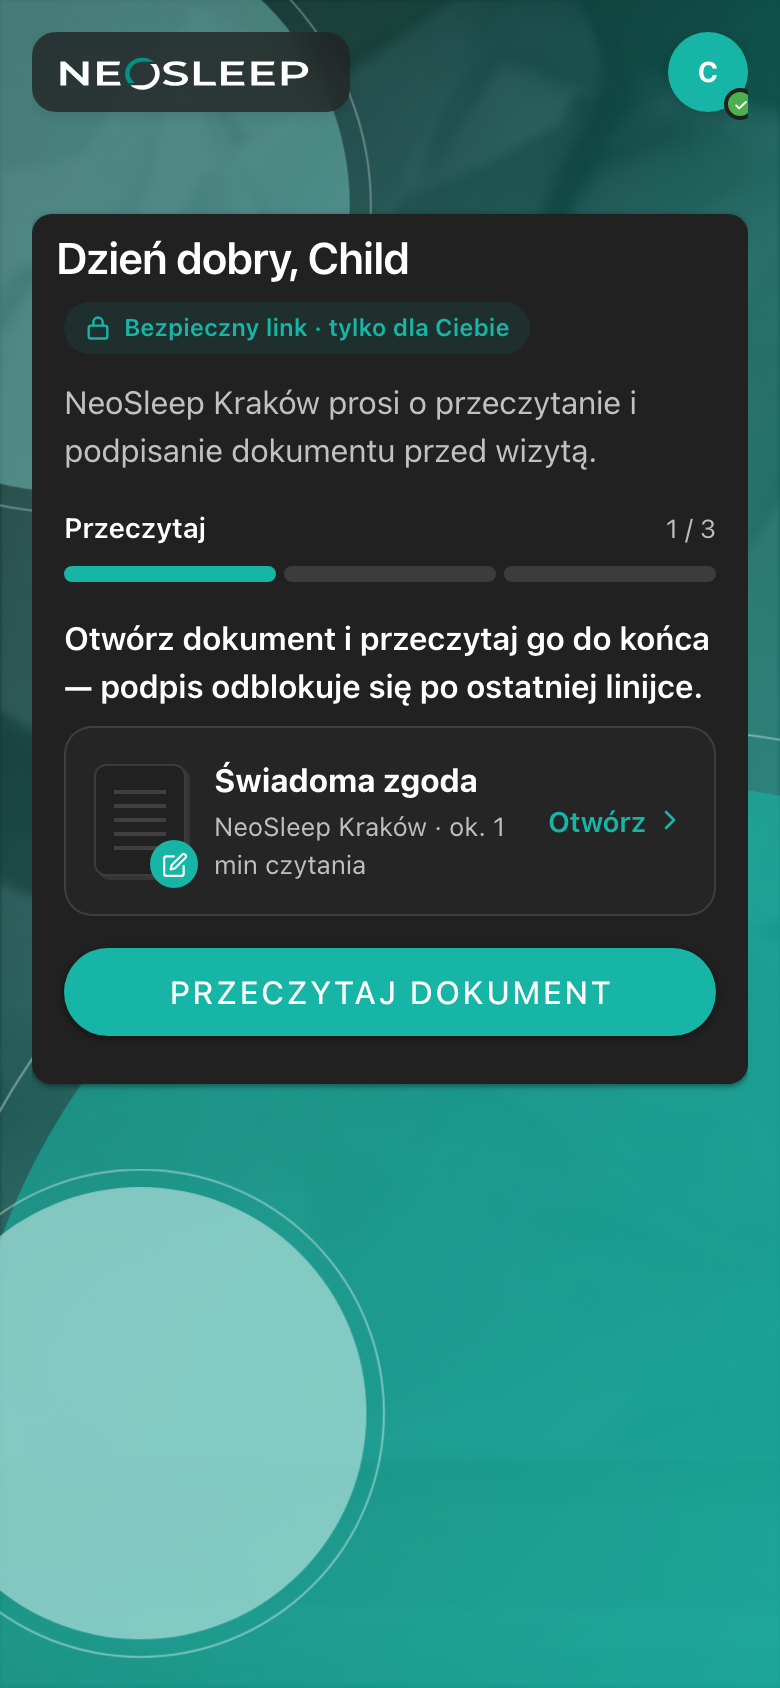
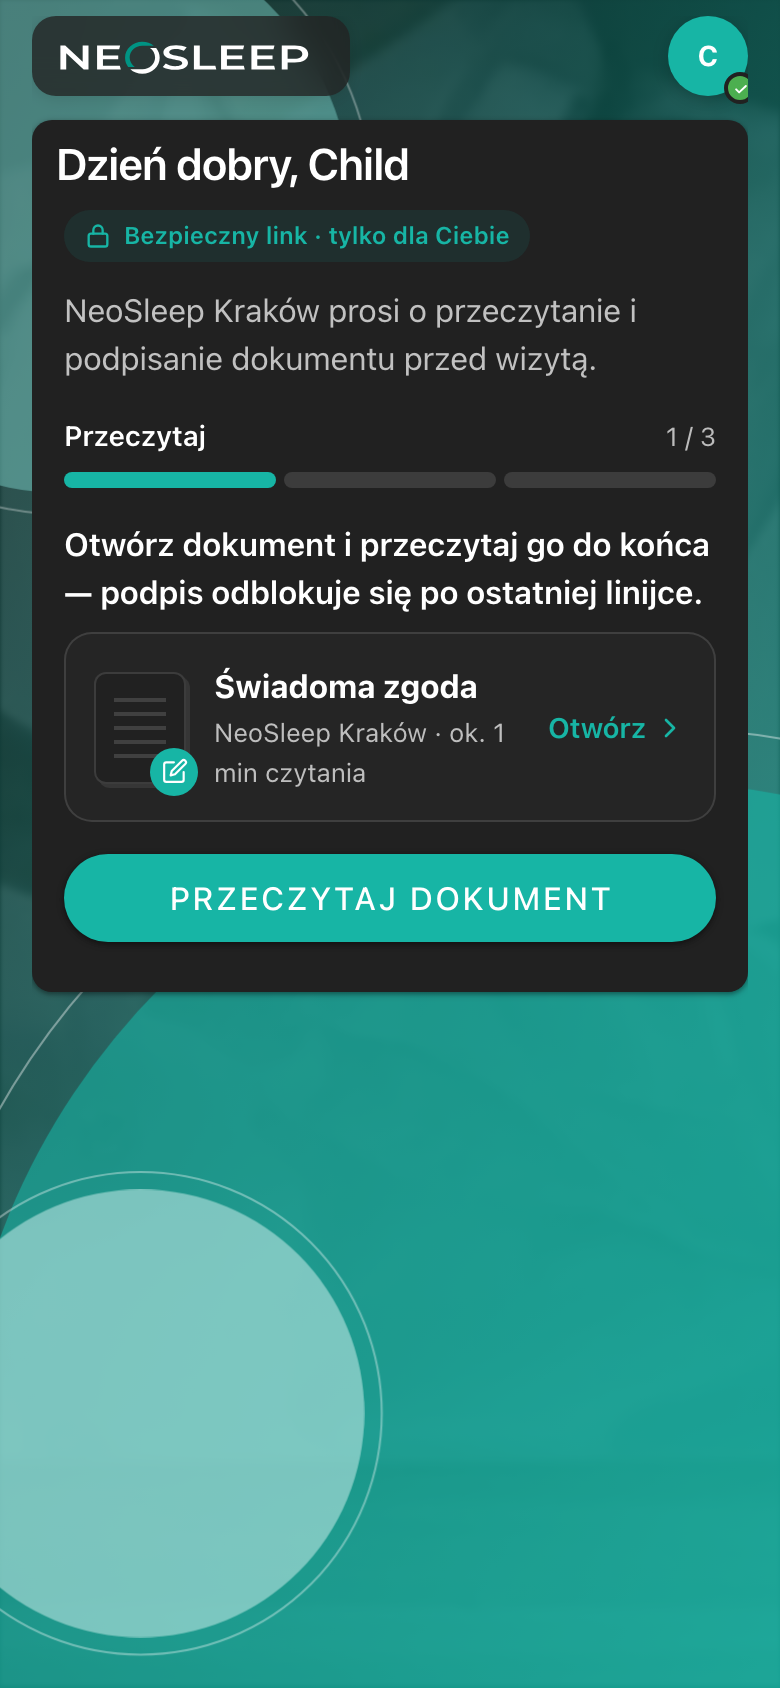
fix(pwa): phone — patient bar hugs the top, card right under it (NEO-126)

diff --git a/apps/pwa/src/views/PatientQuestionnaireView.vue b/apps/pwa/src/views/PatientQuestionnaireView.vue
@@ -1002,6 +1002,15 @@ async function submitQuestionnaire() {
 }
 
 @media (max-width: 480px) {
+  /* Phones: the bar hugs the top edge and the card follows close under it — no dead band above the content. */
+  .patient-questionnaire {
+    margin-top: calc(-1 * var(--layout-public-inset-top, 16px) + max(8px, env(safe-area-inset-top)));
+  }
+
+  .patient-questionnaire__card {
+    margin-top: 12px;
+  }
+
   .patient-questionnaire__body {
     padding: 8px 16px 24px;
   }
